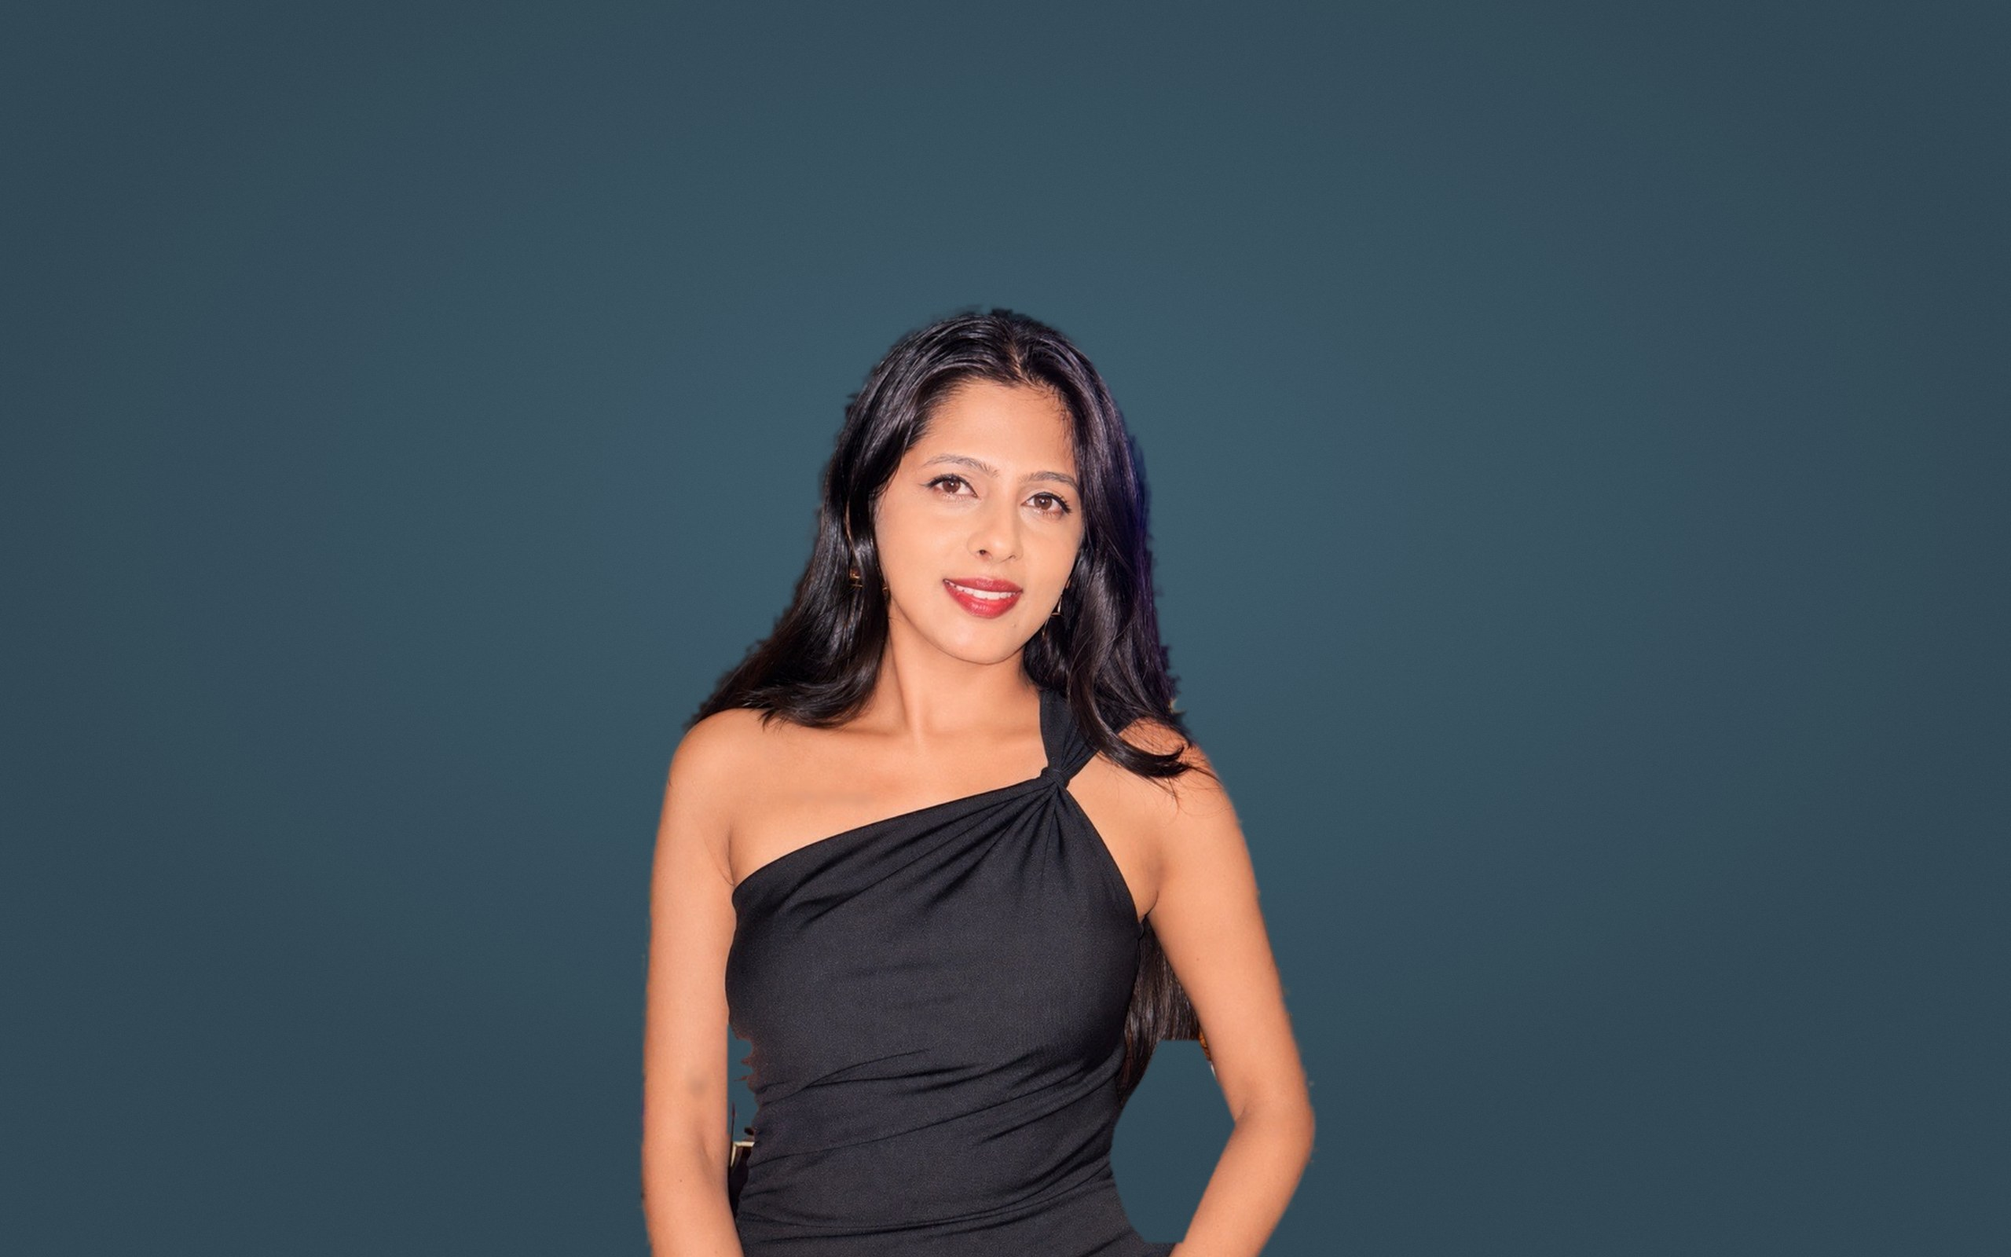
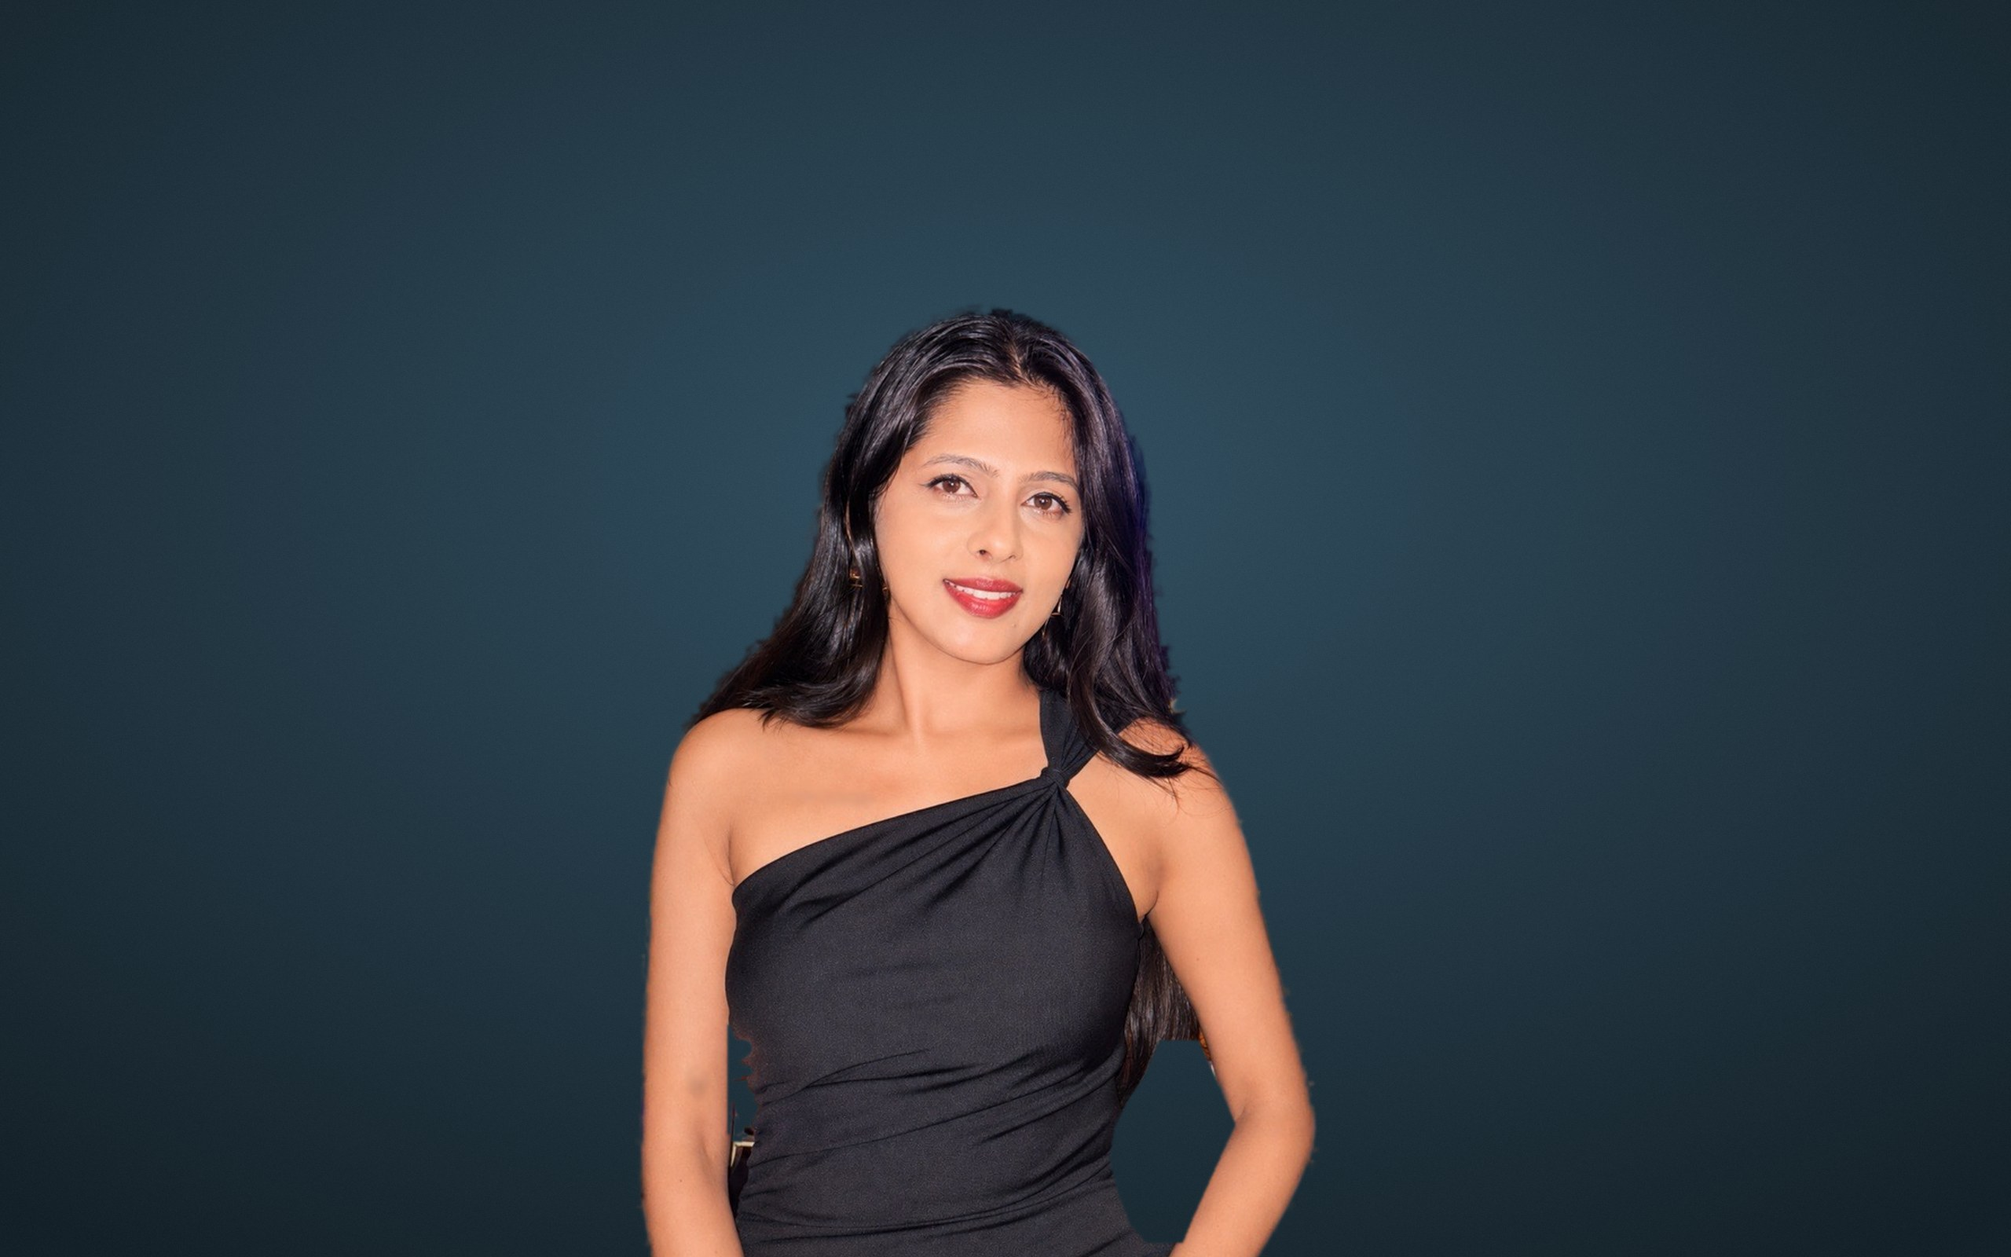
Add files via upload

diff --git a/index.html b/index.html
@@ -5,7 +5,7 @@
   <meta name="viewport" content="width=device-width, initial-scale=1">
   <title>Swathi Jain | Kannada Film & Television Actor, Bengaluru</title>
   <meta name="description" content="Portfolio of Swathi Jain, Kannada film, television and digital actor from Sagara, based in Bengaluru. Movies, serials, short films and web series.">
-  <meta name="theme-color" content="#3a5462">
+  <meta name="theme-color" content="#172229">
   <meta name="color-scheme" content="light dark">
   <meta property="og:type" content="profile">
   <meta property="og:title" content="Swathi Jain | Kannada Film & Television Actor">
@@ -97,7 +97,10 @@
 
     <!-- PROFILE -->
     <section class="profile" id="profile">
+      <p class="idx reveal">01 &middot; About</p>
       <h2 class="sec reveal">About</h2>
+      <div class="about-grid">
+      <figure class="portrait reveal"><img src="assets/swathi.jpg" alt="Swathi Jain smiling in a black one-shoulder dress" loading="lazy" width="767" height="1024"><figcaption>Swathi Jain &middot; Bengaluru</figcaption></figure>
       <div class="sheet reveal">
         <dl>
           <div><dt>Age</dt><dd>27</dd></div>
@@ -113,44 +116,48 @@
           <li><b data-count="1">1</b><span>Web Series</span></li>
         </ul>
       </div>
+      </div>
     </section>
 
     <!-- WORK -->
     <section class="work" id="work">
+      <p class="idx reveal">02 &middot; Filmography</p>
       <h2 class="sec reveal">Selected Work</h2>
       <div class="filters reveal" role="group" aria-label="Filter credits">
-        <button type="button" aria-pressed="true" data-f="all">All</button>
-        <button type="button" aria-pressed="false" data-f="film">Movies</button>
-        <button type="button" aria-pressed="false" data-f="tv">Serials</button>
-        <button type="button" aria-pressed="false" data-f="short">Short Movies</button>
-        <button type="button" aria-pressed="false" data-f="web">Web Series</button>
+        <button type="button" aria-pressed="true" data-f="all">All<sup>12</sup></button>
+        <button type="button" aria-pressed="false" data-f="film">Movies<sup>4</sup></button>
+        <button type="button" aria-pressed="false" data-f="tv">Serials<sup>5</sup></button>
+        <button type="button" aria-pressed="false" data-f="short">Short Movies<sup>2</sup></button>
+        <button type="button" aria-pressed="false" data-f="web">Web Series<sup>1</sup></button>
       </div>
 
       <!-- Posters: save each as assets/posters/<slug>.jpg (2:3). Missing posters show a styled title card. -->
       <ol class="credits" id="credits">
-        <li class="credit reveal" data-type="film"><figure class="poster"><img src="assets/posters/premada-oorali.jpg" alt="Premada Oorali poster" loading="lazy" onerror="this.remove()"><span class="ph">Premada<br>Oorali</span></figure><p class="t">Premada Oorali</p><p class="k">Movie</p></li>
-        <li class="credit reveal" data-type="film"><figure class="poster"><img src="assets/posters/riktha.jpg" alt="Riktha poster" loading="lazy" onerror="this.remove()"><span class="ph">Riktha</span></figure><p class="t">Riktha</p><p class="k">Movie</p></li>
-        <li class="credit reveal" data-type="film"><figure class="poster"><img src="assets/posters/kerebete.jpg" alt="Kerebete poster" loading="lazy" onerror="this.remove()"><span class="ph">Kerebete</span></figure><p class="t">Kerebete</p><p class="k">Movie</p></li>
-        <li class="credit reveal" data-type="film"><figure class="poster"><img src="assets/posters/preman.jpg" alt="Preman poster" loading="lazy" onerror="this.remove()"><span class="ph">Preman</span></figure><p class="t">Preman</p><p class="k">Movie</p></li>
+        <li class="credit reveal" data-type="film"><figure class="poster"><img src="assets/posters/premada-oorali.jpg" alt="Premada Oorali poster" loading="lazy" onerror="this.remove()"><span class="badge">Movie</span><span class="ph">Premada<br>Oorali</span></figure><p class="t">Premada Oorali</p><p class="k">Movie</p></li>
+        <li class="credit reveal" data-type="film"><figure class="poster"><img src="assets/posters/riktha.jpg" alt="Riktha poster" loading="lazy" onerror="this.remove()"><span class="badge">Movie</span><span class="ph">Riktha</span></figure><p class="t">Riktha</p><p class="k">Movie</p></li>
+        <li class="credit reveal" data-type="film"><figure class="poster"><img src="assets/posters/kerebete.jpg" alt="Kerebete poster" loading="lazy" onerror="this.remove()"><span class="badge">Movie</span><span class="ph">Kerebete</span></figure><p class="t">Kerebete</p><p class="k">Movie</p></li>
+        <li class="credit reveal" data-type="film"><figure class="poster"><img src="assets/posters/preman.jpg" alt="Preman poster" loading="lazy" onerror="this.remove()"><span class="badge">Movie</span><span class="ph">Preman</span></figure><p class="t">Preman</p><p class="k">Movie</p></li>
 
-        <li class="credit reveal" data-type="tv"><figure class="poster"><img src="assets/posters/jenugudu.jpg" alt="Jenugudu poster" loading="lazy" onerror="this.remove()"><span class="ph">Jenugudu</span></figure><p class="t">Jenugudu</p><p class="k">Serial</p></li>
-        <li class="credit reveal" data-type="tv"><figure class="poster"><img src="assets/posters/lakshana.jpg" alt="Lakshana poster" loading="lazy" onerror="this.remove()"><span class="ph">Lakshana</span></figure><p class="t">Lakshana</p><p class="k">Serial</p></li>
-        <li class="credit reveal" data-type="tv"><figure class="poster"><img src="assets/posters/amruthadhare.jpg" alt="Amruthadhare poster" loading="lazy" onerror="this.remove()"><span class="ph">Amruthadhare</span></figure><p class="t">Amruthadhare</p><p class="k">Serial</p></li>
-        <li class="credit reveal" data-type="tv"><figure class="poster"><img src="assets/posters/avanu-matthe-shravani.jpg" alt="Avanu Matthe Shravani poster" loading="lazy" onerror="this.remove()"><span class="ph">Avanu Matthe<br>Shravani</span></figure><p class="t">Avanu Matthe Shravani</p><p class="k">Serial</p></li>
-        <li class="credit reveal" data-type="tv"><figure class="poster"><img src="assets/posters/bhagyalakshmi.jpg" alt="Bhagyalakshmi poster" loading="lazy" onerror="this.remove()"><span class="ph">Bhagya&shy;lakshmi</span></figure><p class="t">Bhagyalakshmi</p><p class="k">Serial &middot; Shantham Papam, 4 episodes</p></li>
+        <li class="credit reveal" data-type="tv"><figure class="poster"><img src="assets/posters/jenugudu.jpg" alt="Jenugudu poster" loading="lazy" onerror="this.remove()"><span class="badge">Serial</span><span class="ph">Jenugudu</span></figure><p class="t">Jenugudu</p><p class="k">Serial</p></li>
+        <li class="credit reveal" data-type="tv"><figure class="poster"><img src="assets/posters/lakshana.jpg" alt="Lakshana poster" loading="lazy" onerror="this.remove()"><span class="badge">Serial</span><span class="ph">Lakshana</span></figure><p class="t">Lakshana</p><p class="k">Serial</p></li>
+        <li class="credit reveal" data-type="tv"><figure class="poster"><img src="assets/posters/amruthadhare.jpg" alt="Amruthadhare poster" loading="lazy" onerror="this.remove()"><span class="badge">Serial</span><span class="ph">Amruthadhare</span></figure><p class="t">Amruthadhare</p><p class="k">Serial</p></li>
+        <li class="credit reveal" data-type="tv"><figure class="poster"><img src="assets/posters/avanu-matthe-shravani.jpg" alt="Avanu Matthe Shravani poster" loading="lazy" onerror="this.remove()"><span class="badge">Serial</span><span class="ph">Avanu Matthe<br>Shravani</span></figure><p class="t">Avanu Matthe Shravani</p><p class="k">Serial</p></li>
+        <li class="credit reveal" data-type="tv"><figure class="poster"><img src="assets/posters/bhagyalakshmi.jpg" alt="Bhagyalakshmi poster" loading="lazy" onerror="this.remove()"><span class="badge">Serial</span><span class="ph">Bhagya&shy;lakshmi</span></figure><p class="t">Bhagyalakshmi</p><p class="k">Serial &middot; Shantham Papam, 4 episodes</p></li>
 
-        <li class="credit reveal" data-type="short"><figure class="poster"><img src="assets/posters/ambassador.jpg" alt="Ambassador poster" loading="lazy" onerror="this.remove()"><span class="ph">Ambassador</span></figure><p class="t">Ambassador</p><p class="k">Short Movie</p></li>
-        <li class="credit reveal" data-type="short"><figure class="poster"><img src="assets/posters/mayavi-manase.jpg" alt="Mayavi Manase poster" loading="lazy" onerror="this.remove()"><span class="ph">Mayavi<br>Manase</span></figure><p class="t">Mayavi Manase</p><p class="k">Short Movie</p></li>
+        <li class="credit reveal" data-type="short"><figure class="poster"><img src="assets/posters/ambassador.jpg" alt="Ambassador poster" loading="lazy" onerror="this.remove()"><span class="badge">Short</span><span class="ph">Ambassador</span></figure><p class="t">Ambassador</p><p class="k">Short Movie</p></li>
+        <li class="credit reveal" data-type="short"><figure class="poster"><img src="assets/posters/mayavi-manase.jpg" alt="Mayavi Manase poster" loading="lazy" onerror="this.remove()"><span class="badge">Short</span><span class="ph">Mayavi<br>Manase</span></figure><p class="t">Mayavi Manase</p><p class="k">Short Movie</p></li>
 
-        <li class="credit reveal" data-type="web"><figure class="poster"><img src="assets/posters/billionaires-hidden-life.jpg" alt="Billionaire’s Hidden Life poster" loading="lazy" onerror="this.remove()"><span class="ph">Billionaire’s<br>Hidden Life</span></figure><p class="t">Billionaire’s Hidden Life</p><p class="k">Web Series &middot; Kuku TV</p></li>
+        <li class="credit reveal" data-type="web"><figure class="poster"><img src="assets/posters/billionaires-hidden-life.jpg" alt="Billionaire’s Hidden Life poster" loading="lazy" onerror="this.remove()"><span class="badge">Web</span><span class="ph">Billionaire’s<br>Hidden Life</span></figure><p class="t">Billionaire’s Hidden Life</p><p class="k">Web Series &middot; Kuku TV</p></li>
       </ol>
     </section>
 
     <!-- OPEN TO WORK -->
     <section class="open" id="open">
-      <p class="eyebrow">Open to opportunities</p>
+      <div class="deco" aria-hidden="true"><i></i><i></i><i></i></div>
+      <p class="idx reveal" style="justify-content:center">03 &middot; Open to opportunities</p>
       <h2 class="big reveal">Let’s tell a<br><em>story</em> together.</h2>
       <p class="lede center">Available for Kannada cinema, television, short films and digital projects.</p>
+      <div class="tags reveal"><span>Cinema</span><span>Television</span><span>Short films</span><span>Web &amp; digital</span></div>
       <!-- Add a contact button here later, for example:
       <a class="btn" href="mailto:you@example.com">Email Swathi</a> -->
     </section>

diff --git a/style.css b/style.css
@@ -10,11 +10,12 @@
   --zari:   oklch(0.97 0.005 230);         /* legacy name: white line/ring colour */
   --green:  oklch(0.3 0.03 230);
 
-  --bg:    light-dark(oklch(0.94 0.012 230), #3a5462);
-  --bg-2:  light-dark(oklch(0.9 0.02 230),  #324957);
+  --bg:    light-dark(oklch(0.94 0.012 230), #172229);
+  --bg-2:  light-dark(oklch(0.9 0.02 230),  #1f2e37);
   --ink:   light-dark(oklch(0.22 0.03 230), #ffffff);
   --muted: light-dark(oklch(0.42 0.03 230), rgba(255,255,255,.74));
-  --line:  light-dark(rgba(0,0,0,.2), rgba(255,255,255,.5));
+  --line:  light-dark(rgba(0,0,0,.2), rgba(255,255,255,.18));
+  --pop:   light-dark(oklch(0.5 0.12 70), oklch(0.84 0.11 82));   /* warm gold accent */
   --accent: light-dark(oklch(0.22 0.03 230), #ffffff);
   --on-accent: light-dark(#ffffff, #000000);
   --gold-ink: light-dark(oklch(0.36 0.04 230), rgba(255,255,255,.88));
@@ -179,7 +180,7 @@ footer { padding: 2rem var(--pad) 3rem; border-top: 1px solid var(--line); text-
   --u:clamp(.72px, min(calc(var(--vw) / 1280), calc(var(--vh) / 800)), 3px);
   --lmono:"PX Mono","Roboto Mono",ui-monospace,SFMono-Regular,Menlo,Consolas,monospace;
   --lsans:"PX Sans",Inter,"Helvetica Neue",Arial,system-ui,sans-serif;
-  position:relative; height:var(--vh); padding:0; overflow:hidden; background:#3a5462;
+  position:relative; height:var(--vh); padding:0; overflow:hidden; background:#22373f;
 }
 .scene{position:absolute;left:50%;top:50%;width:calc(1280 * var(--sc));height:calc(800 * var(--sc));transform:translate(-50%,-50%)}
 .scene>img,.scene>svg{position:absolute;inset:0;width:100%;height:100%;display:block}
@@ -229,3 +230,68 @@ footer { padding: 2rem var(--pad) 3rem; border-top: 1px solid var(--line); text-
 .px-intro .logo,.px-intro .menu{opacity:0}
 .px-intro .lbtn{clip-path:inset(0 100% 0 0)}
 .px-intro .lbl{opacity:0}
+
+
+/* =====================================================================
+   ENHANCEMENTS: darker, richer portfolio sections
+   ===================================================================== */
+body { background:
+  radial-gradient(60rem 40rem at 85% 8%, color-mix(in oklch, var(--pop) 7%, transparent), transparent 60%),
+  radial-gradient(50rem 40rem at 5% 40%, color-mix(in oklch, #4b7a90 14%, transparent), transparent 60%),
+  radial-gradient(circle at 1px 1px, color-mix(in oklch, var(--ink) 7%, transparent) 1px, transparent 1.4px) 0 0 / 22px 22px,
+  var(--bg); background-attachment: fixed, fixed, scroll, scroll; }
+
+.idx { display: flex; align-items: center; gap: .9rem; margin-bottom: 1rem; font: 700 .78rem var(--body); letter-spacing: .28em; text-transform: uppercase; color: var(--pop); }
+.idx::before { content: ""; width: 2.5rem; height: 1px; background: var(--pop); }
+.sec::after { background: linear-gradient(90deg, var(--pop), transparent); height: 2px; width: 8rem; }
+.nav { background: color-mix(in oklch, #0c1317 72%, transparent); border-color: rgba(255,255,255,.14); }
+
+/* About: portrait + facts */
+.about-grid { display: grid; grid-template-columns: minmax(0, .8fr) minmax(0, 1.2fr); gap: clamp(2rem, 6vw, 6rem); align-items: center; }
+.portrait { position: relative; margin: 0; max-width: 26rem; justify-self: center; }
+.portrait::before { content: ""; position: absolute; inset: -1rem 1rem 1rem -1rem; border: 1px solid var(--pop); border-radius: 999px 999px 1rem 1rem; opacity: .7; }
+.portrait img { position: relative; display: block; width: 100%; aspect-ratio: 4 / 5; object-fit: cover; object-position: 50% 12%; border-radius: 999px 999px 1rem 1rem;
+  box-shadow: 0 40px 80px -30px #000; filter: saturate(1.05) contrast(1.03); }
+.portrait figcaption { position: absolute; left: 50%; bottom: 1rem; translate: -50% 0; padding: .45rem 1rem; border-radius: 999px; background: rgba(0,0,0,.7); backdrop-filter: blur(8px);
+  font: 700 .68rem var(--body); letter-spacing: .22em; text-transform: uppercase; white-space: nowrap; color: #fff; }
+.sheet { grid-template-columns: 1fr; gap: 2.2rem; }
+.sheet dd { color: #fff; }
+.counts li { position: relative; overflow: hidden; background: linear-gradient(160deg, var(--bg-2), color-mix(in oklch, var(--bg) 70%, #000)); border: 1px solid var(--line); border-bottom: 3px solid var(--pop); border-radius: 1rem; }
+.counts b, .counts li:nth-child(n) b { color: var(--pop); }
+
+/* Spotlight that follows the pointer on cards */
+.counts li::after, .poster::after { content: ""; position: absolute; inset: 0; pointer-events: none; opacity: 0; transition: opacity .3s; z-index: 3;
+  background: radial-gradient(14rem circle at var(--mx, 50%) var(--my, 50%), rgba(255,255,255,.16), transparent 60%); }
+.counts li:hover::after, .credit:hover .poster::after { opacity: 1; }
+
+/* Work */
+.filters button { backdrop-filter: blur(6px); background: rgba(255,255,255,.04); }
+.filters button sup { margin-left: .35em; font-size: .68em; color: var(--pop); }
+.filters button[aria-pressed="true"] { background: #fff; color: #000; border-color: #fff; }
+.filters button[aria-pressed="true"] sup { color: #000; }
+.poster { border: 1px solid rgba(255,255,255,.28); border-radius: 1rem; }
+.poster .badge { position: absolute; top: .7rem; left: .7rem; z-index: 2; padding: .25rem .6rem; border-radius: 999px; background: rgba(0,0,0,.72); backdrop-filter: blur(6px);
+  font: 700 .6rem var(--body); letter-spacing: .16em; text-transform: uppercase; color: #fff; }
+.credit:hover .poster { box-shadow: 0 30px 50px -20px color-mix(in oklch, var(--pop) 45%, #000); border-color: var(--pop); }
+.credit .t { transition: color .25s; }
+.credit:hover .t { color: var(--pop); }
+.poster .ph { font-size: 1.6rem; }
+
+/* Open to work: slow rotating rings behind the call to action */
+.open { position: relative; overflow: hidden; background: radial-gradient(60% 70% at 50% 100%, color-mix(in oklch, #4b7a90 28%, transparent), transparent 70%); border-top: 1px solid var(--line); }
+.open > *:not(.deco) { position: relative; z-index: 1; }
+.deco { position: absolute; left: 50%; top: 50%; width: min(90vw, 56rem); aspect-ratio: 1; translate: -50% -50%; pointer-events: none; }
+.deco i { position: absolute; inset: 0; border-radius: 50%; border: 1px solid rgba(255,255,255,.22); border-right-color: transparent; border-bottom-color: transparent; animation: spin 40s linear infinite; }
+.deco i:nth-child(2) { inset: 9%; animation-duration: 55s; animation-direction: reverse; border-color: rgba(255,255,255,.18); border-left-color: transparent; border-top-color: transparent; }
+.deco i:nth-child(3) { inset: 19%; animation-duration: 70s; border-color: color-mix(in oklch, var(--pop) 50%, transparent); border-bottom-color: transparent; border-left-color: transparent; }
+@keyframes spin { to { rotate: 360deg; } }
+.big { color: #fff; }
+.big em { background: linear-gradient(90deg, var(--pop), #fff); -webkit-background-clip: text; background-clip: text; color: transparent; }
+.tags { display: flex; flex-wrap: wrap; justify-content: center; gap: .6rem; margin-top: 2rem; }
+.tags span { padding: .5rem 1.1rem; border: 1px solid var(--line); border-radius: 999px; font-size: .85rem; background: rgba(255,255,255,.04); }
+
+@media (max-width: 820px) {
+  .about-grid { grid-template-columns: 1fr; }
+  .portrait { max-width: 18rem; }
+}
+@media (prefers-reduced-motion: reduce) { .deco i { animation: none !important; } }

diff --git a/script.js b/script.js
@@ -8,7 +8,7 @@ const themeBtn = document.getElementById('theme');
 function applyTheme(t) {
   root.dataset.theme = t;
   themeBtn.setAttribute('aria-label', `Switch to ${t === 'dark' ? 'light' : 'dark'} theme`);
-  document.querySelector('meta[name="theme-color"]').content = t === 'dark' ? '#3a5462' : '#e9eff2';
+  document.querySelector('meta[name="theme-color"]').content = t === 'dark' ? '#172229' : '#e9eff2';
 }
 applyTheme(localStorage.getItem('theme') || 'dark');
 themeBtn.addEventListener('click', () => {
@@ -65,6 +65,15 @@ if (!reduced) {
   }, { threshold: 0.6 });
   document.querySelectorAll('[data-count]').forEach((n) => io2.observe(n));
 }
+
+/* ---------- Pointer spotlight on cards ---------- */
+document.querySelectorAll('.counts li, .poster').forEach((el) => {
+  el.addEventListener('pointermove', (e) => {
+    const r = el.getBoundingClientRect();
+    el.style.setProperty('--mx', (e.clientX - r.left) + 'px');
+    el.style.setProperty('--my', (e.clientY - r.top) + 'px');
+  });
+});
 
 document.getElementById('yr').textContent = new Date().getFullYear();
 
